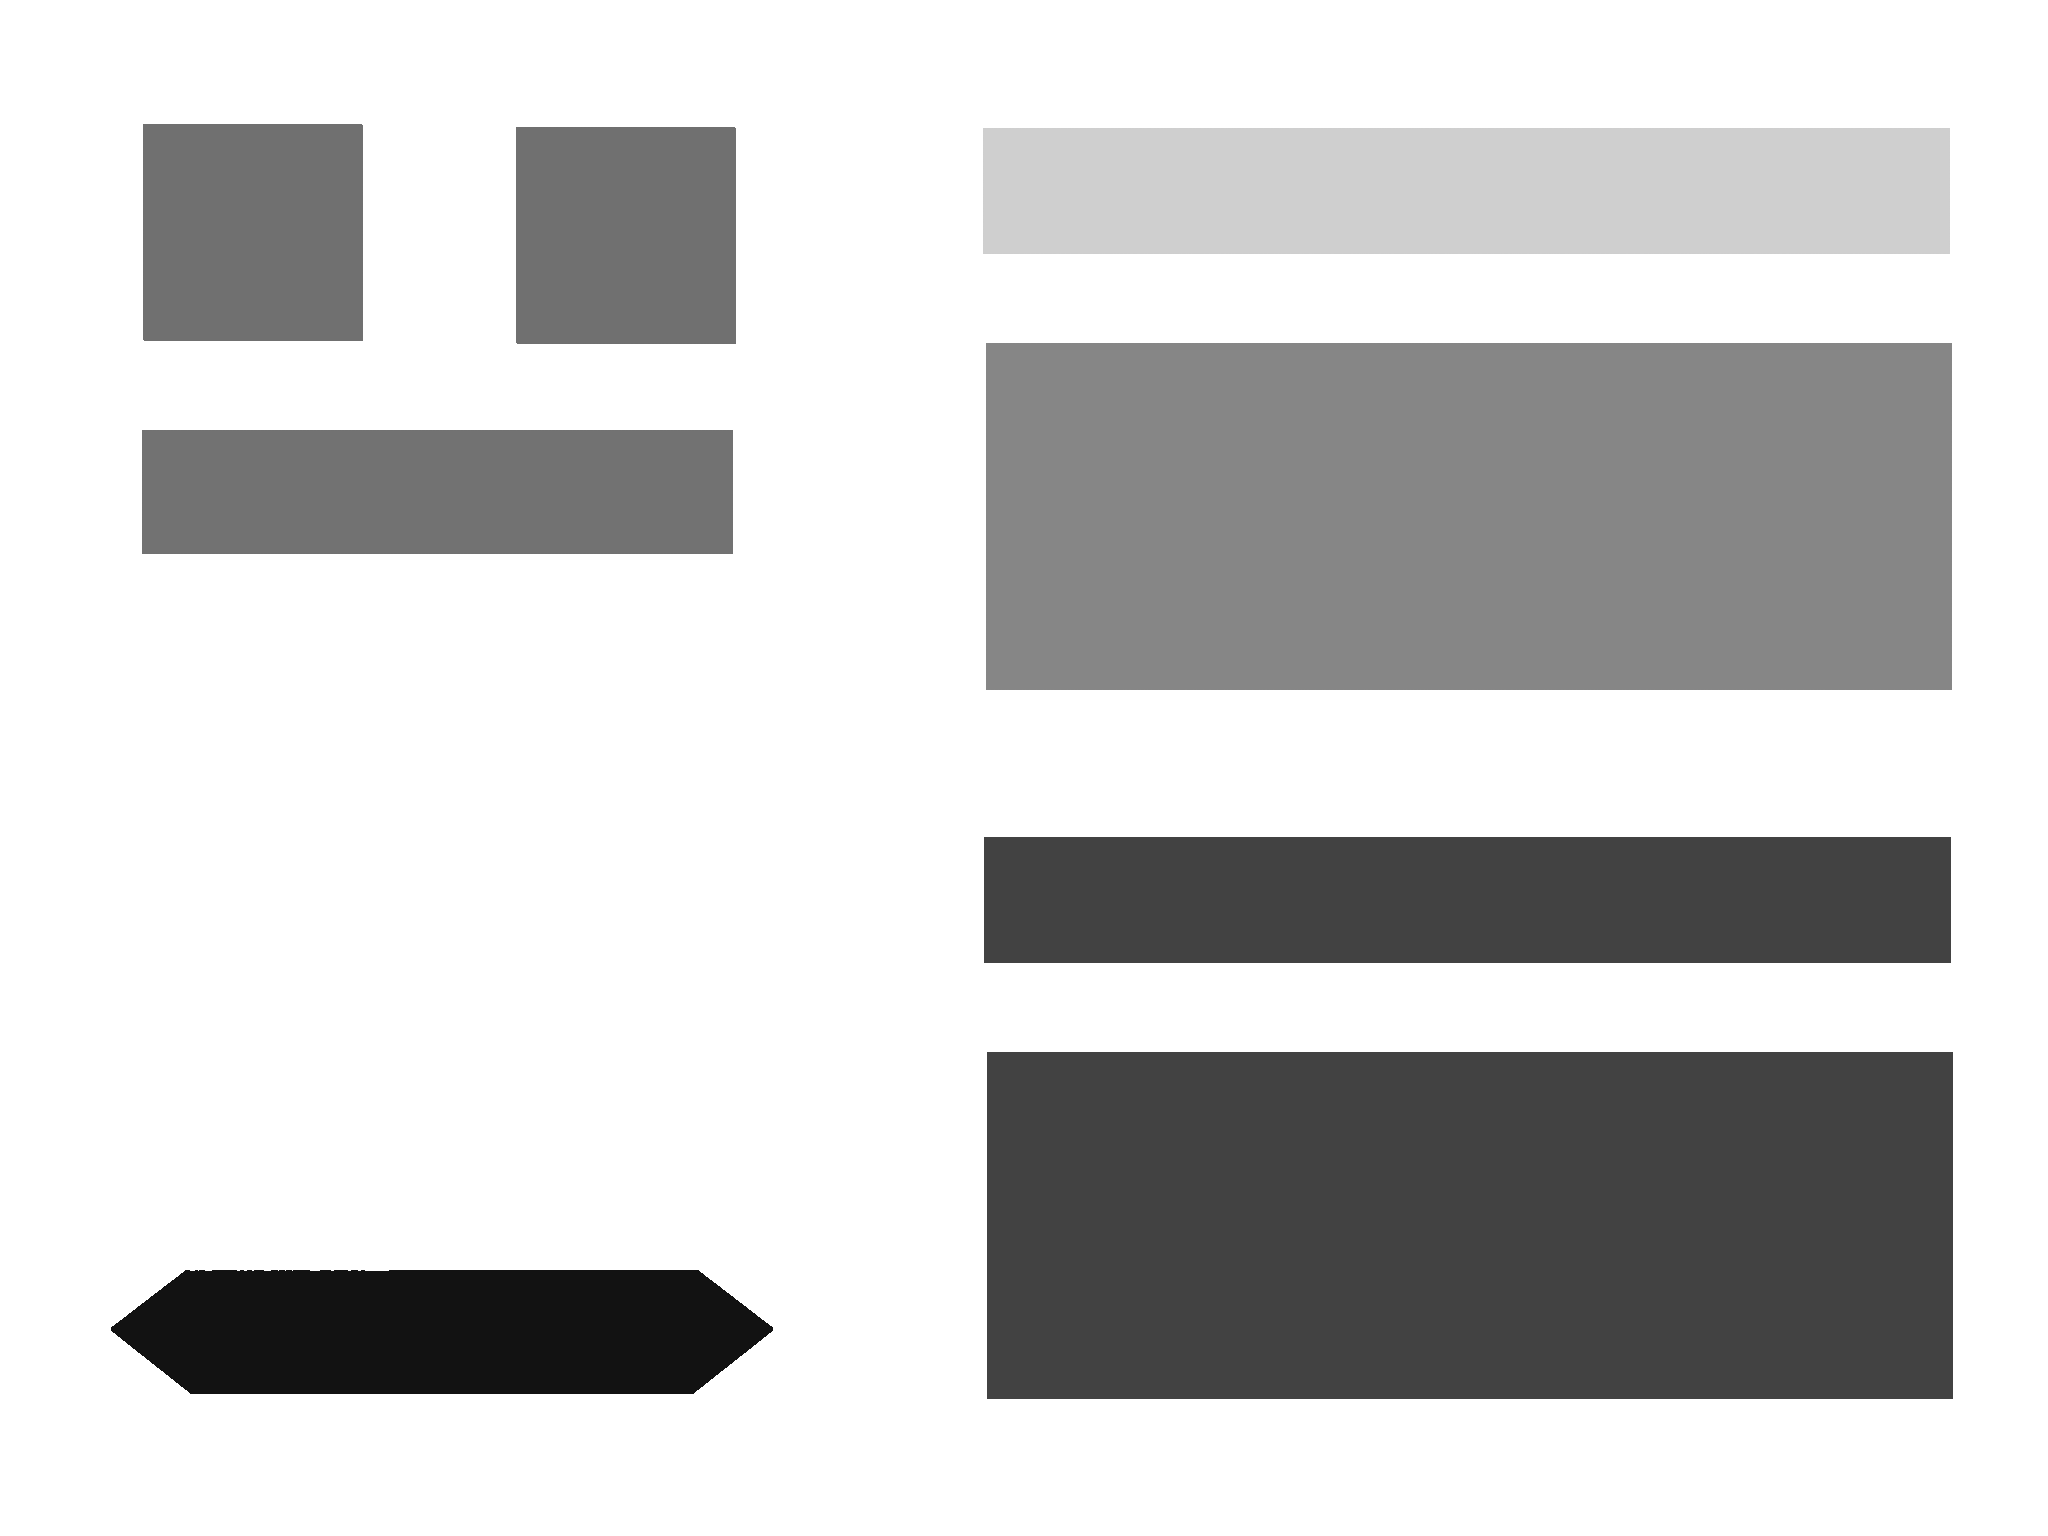
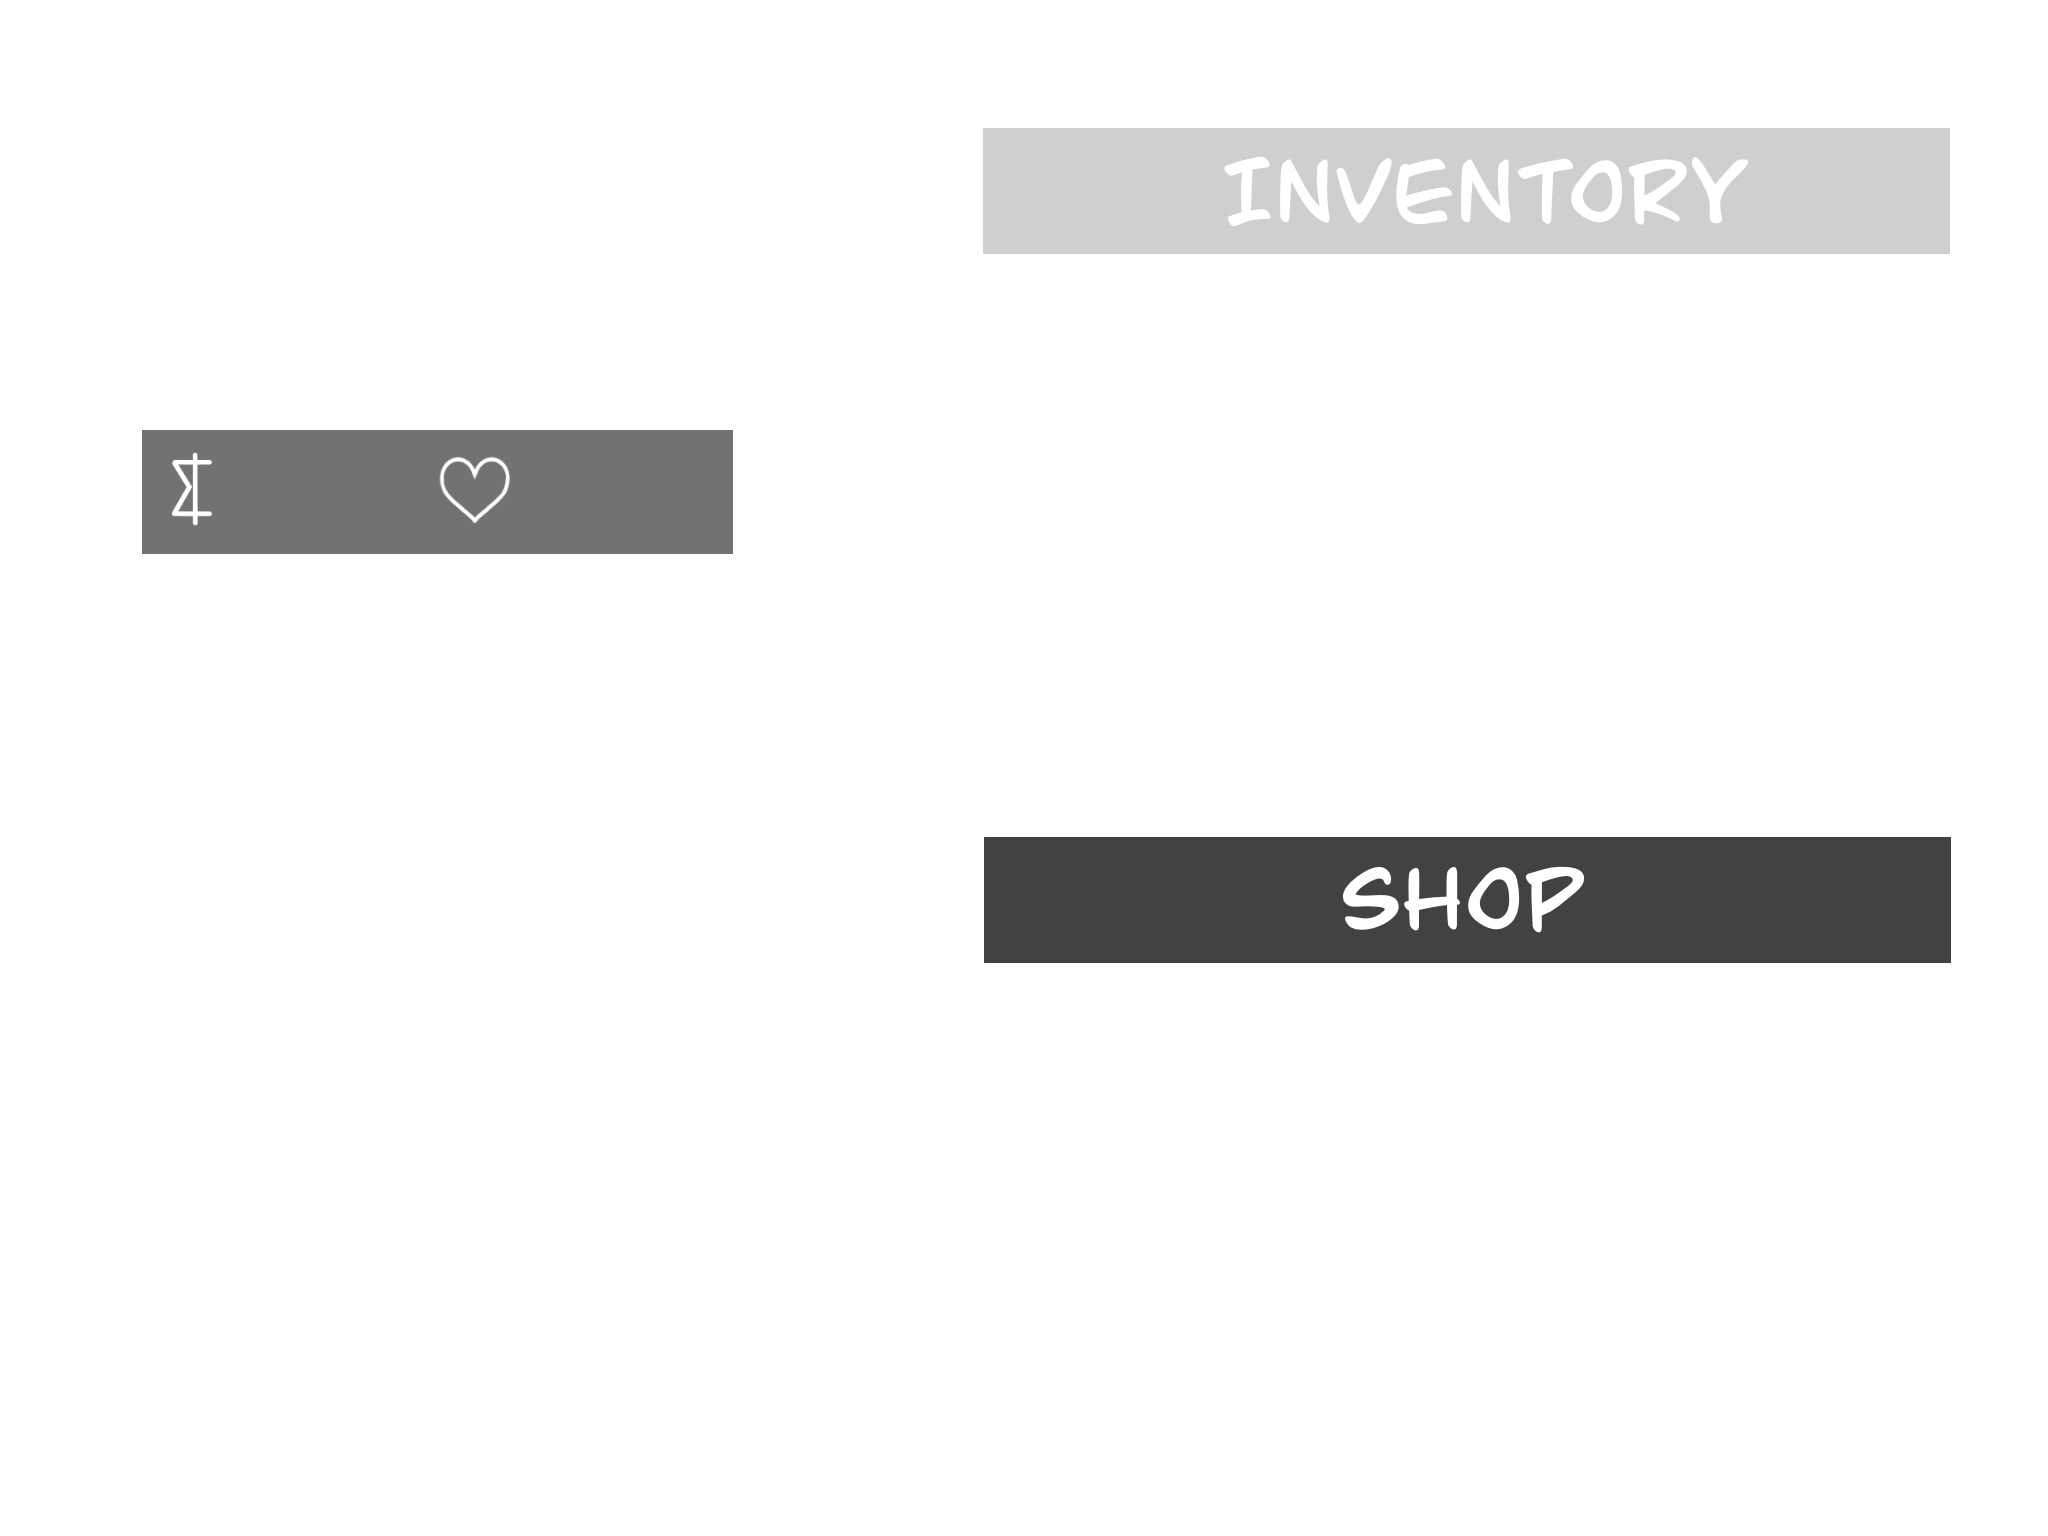
healthbar puups

diff --git a/webapp/src/classes/shoppingscene.ts b/webapp/src/classes/shoppingscene.ts
@@ -10,6 +10,7 @@ export class ShoppingScene implements Scene {
     shopUIoverlay: HTMLImageElement;
     state: GameState;
     currentDescription: string | null;
+    battleButton: HTMLImageElement;
 
     constructor(state: GameState) {
         this.state = state;
@@ -21,6 +22,9 @@ export class ShoppingScene implements Scene {
 
         this.shopUIoverlay = document.createElement("img");
         this.shopUIoverlay.src = "/assets/shop_overlay.png";
+
+        this.battleButton = document.createElement("img");
+        this.battleButton.src = "/assets/shop_overlay_battle.png";
         this.currentDescription = null;
     }
 
@@ -97,6 +101,7 @@ export class ShoppingScene implements Scene {
 
     static purchase(player: Player, item: Item): boolean {
       if (player.money < item.cost) return false;
+      if (player.consumables.length >= 4) return false;
 
       player.money -= item.cost;
       player.addItem(item);
@@ -106,13 +111,26 @@ export class ShoppingScene implements Scene {
     draw(ctx: CanvasRenderingContext2D) {
         ctx.drawImage(this.shopbackground, 0, 0, ctx.canvas.width, ctx.canvas.height)        
         ctx.drawImage(this.shopUIoverlay, 0, 0, ctx.canvas.width, ctx.canvas.height)
-        ctx.drawImage(this.player.sprite, 110, 350, 384, 384)
-
+        ctx.drawImage(this.player.sprite, 130, 350, 384, 384)
+        ctx.drawImage(this.battleButton, 0, 0, ctx.canvas.width, ctx.canvas.height)
+        
+        ctx.strokeStyle = "#FFFFFF"
+        ctx.fillStyle = "#FFFFFF"
+        ctx.font = "40px Verdana"
+        ctx.fillText(String(this.state.player.money), 180, 300)
+        ctx.fillText(String(this.state.player.maxHealthPoints), 390, 300)
+        
+        
         if (this.currentDescription) {
+          ctx.fillStyle = "black"
+          ctx.fillRect(691, 75, 680, 75)
+
           ctx.fillStyle = "white";
-          ctx.font = "64px Arial";
+          ctx.font = "64px Verdana";
           ctx.textAlign = "left";
           ctx.fillText(this.currentDescription, 710, 140);
         }
+
+
     }
 }

diff --git a/webapp/src/classes/fightingScene.ts b/webapp/src/classes/fightingScene.ts
@@ -42,7 +42,8 @@ export class FightingScene implements Scene {
     
     ctx.drawImage(this.state.player.sprite, 180, 400, 384, 384);
 
-    //Healthbar drawing!!
+    let maxArmorPoints = 100;
+    //Healthbar & Armor-bar drawing!!
     ctx.beginPath()
     ctx.strokeStyle = "#FFFFFF"
     ctx.fillStyle = "#FFFFFF"
@@ -51,9 +52,15 @@ export class FightingScene implements Scene {
     ctx.fillStyle = "rgba(0, 0, 0, 1)";
     ctx.strokeStyle = "#FFFFFF"
     ctx.fillRect(190, 805, 364, 30)
-    ctx.fillStyle = "rgba(0, 255, 0, 1)";
+    ctx.fillStyle = "rgba(0, 200, 0, 1)";
+    //healthbar
     ctx.fillRect(190, 805, 364 * (this.state.player.healthPoints/this.state.player.maxHealthPoints), 30)
+    ctx.fillStyle = "rgba(255, 0, 255, 1)"
+    //armorbar
+    ctx.fillRect(190, 825, 364 * (this.state.player.armorPoints/maxArmorPoints), 10)
     ctx.stroke()
+
+
 
     //Healthbar for enemy! :)
     ctx.beginPath()
@@ -66,9 +73,14 @@ export class FightingScene implements Scene {
     ctx.fillRect(870, 805, 364, 30)
     ctx.fillStyle = "rgba(0, 255, 0, 1)";
     ctx.fillRect(870, 805, 364 * (this.enemy.healthPoints/this.state.player.maxHealthPoints), 30)
+    ctx.fillStyle = "rgba(255, 0, 255, 1)"
+    //armorbar
+    ctx.fillRect(870, 825, 364 * (this.enemy.armorPoints/maxArmorPoints), 10)
+
+
     ctx.stroke()
 
-
+    
 
   }
 
@@ -83,17 +95,11 @@ export class FightingScene implements Scene {
       //TODO: each item has an associated action, and gets its own button.
     }
 
-
-
-
-
-
-
-
     //TODO Generate an enemy randomly. Or don't
     this.enemy = new Enemy;
-    this.enemy.maxHealthPoints = 100;
-    this.enemy.healthPoints = 100;
+    this.enemy.maxHealthPoints = 150;
+    this.enemy.healthPoints = 20;
+    this.enemy.armorPoints = 40;
 
 
   }

diff --git a/webapp/src/classes/player.ts b/webapp/src/classes/player.ts
@@ -3,7 +3,7 @@ import { Item } from "./item";
 export class Player {
     public maxHealthPoints: number = 100;
     public healthPoints: number = 100;
-    public armorPoints: number = 0;
+    public armorPoints: number = 20;
     public money: number = 250;
     public actionPoints: number = 0;
 
